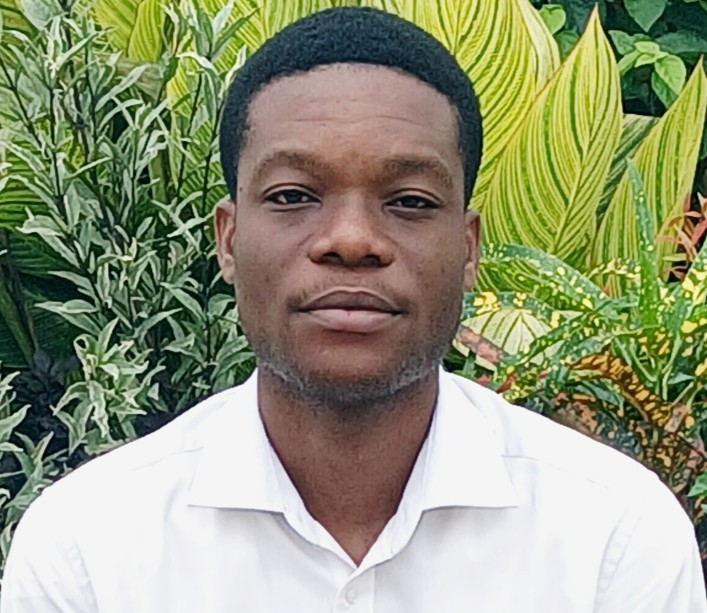
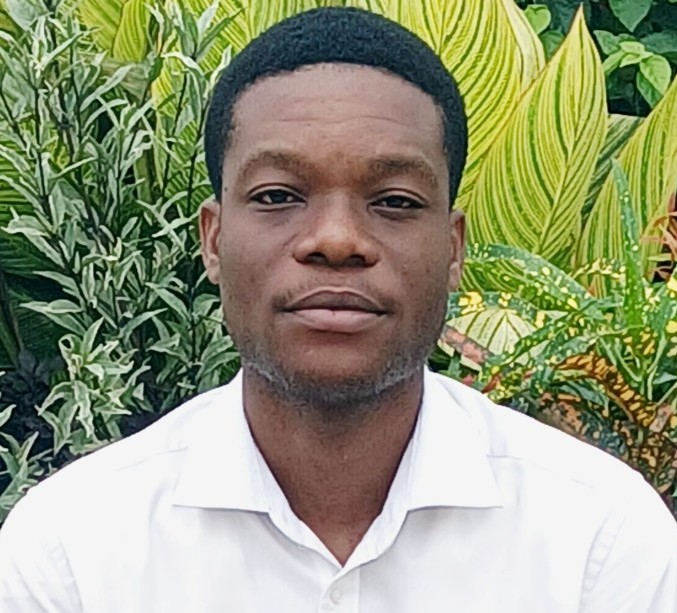
Update index.html with new image links and preconnect for fonts

diff --git a/index.html b/index.html
@@ -8,6 +8,8 @@
     <meta name="description"
         content="WDD 131 – Dynamic Web Fundamentals Guei Tedy Yannick Morel Web development portfolio showcasing dynamic fundamentals and personal projects.">
     <meta name="author" content="Guei Tedy Yannick Morel">
+    <link rel="preconnect" href="https://fonts.googleapis.com">
+    <link rel="preconnect" href="https://fonts.gstatic.com" crossorigin>
     <link rel="stylesheet" href="styles/base.css">
     <link href="https://fonts.googleapis.com/css2?family=Roboto:wght@400;700&display=swap" rel="stylesheet">
     <script src="scripts/getdates.js" defer></script>
@@ -31,17 +33,20 @@
         <h1>Guei Tedy Yannick Morel</h1>
         <section class="card">
             <h2>About Me</h2>
-            <img src="images/My_picture.jpg" alt="Profile picture of Guei Tedy Yannick Morel" width="200" height="200">
-            <p>My name is Guei Tedy Yannick. I was born in Ivory Coast and I am still living there, in Africa. 
-                I am married with one child; I love them a lot, and they are the reason I always have the strength, power, and 
-                courage to overcome challenges in this life. I currently work in hospitality; it is very stressful, but 
-                I like it. I love to learn about technology because it is my passion, and I enjoy traveling and having fun with my 
+            <img src="images/my_picture.jpg" alt="Profile picture of Guei Tedy Yannick Morel" width="200" height="200">
+            <p>My name is Guei Tedy Yannick. I was born in Ivory Coast and I am still living there, in Africa.
+                I am married with one child; I love them a lot, and they are the reason I always have the strength,
+                power, and
+                courage to overcome challenges in this life. I currently work in hospitality; it is very stressful, but
+                I like it. I love to learn about technology because it is my passion, and I enjoy traveling and having
+                fun with my
                 family.</p>
         </section>
         <section class="card">
             <h2>My Goals</h2>
-            <img src="images/projecte_image.png" alt="Image representing goals" width="200" height="200">
-            <p>My goal is to become the best software engineer and show the world that nothing is impossible if you believe in 
+            <img src="images/projecte_image.jpg" alt="Image representing goals" width="200" height="200">
+            <p>My goal is to become the best software engineer and show the world that nothing is impossible if you
+                believe in
                 yourself and God. Through hard work, we can accomplish anything we want to.</p>
         </section>
     </main>
